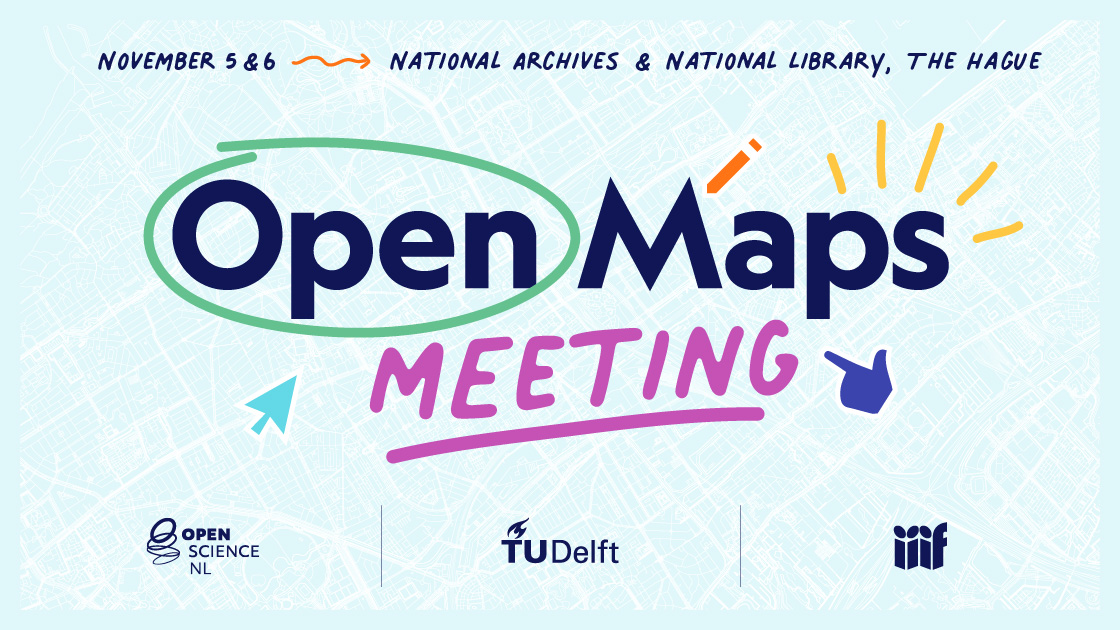
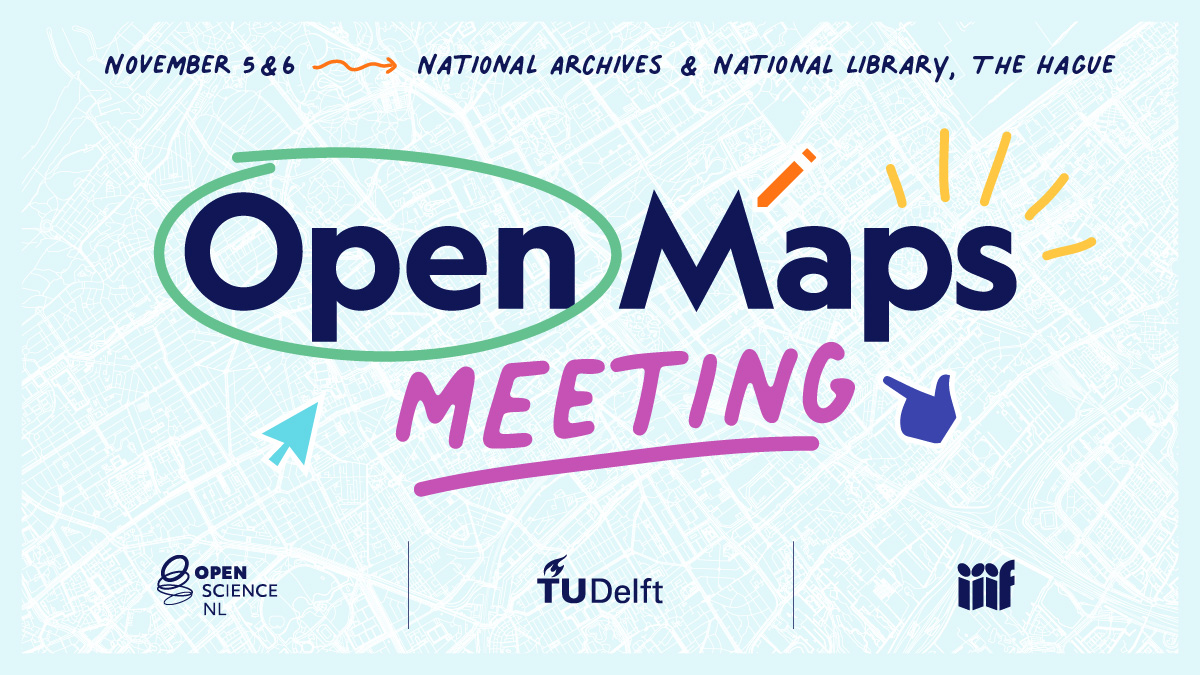
please linked in?

diff --git a/observablehq.config.js b/observablehq.config.js
@@ -71,8 +71,8 @@ function og_image() {
     );
     return `<meta name="image" property="og:image" content=${esc_img} />
             <meta property="twitter:image" content=${esc_img} />
-            <meta property="og:image:width" content="1120">
-            <meta property="og:image:height" content="630">
+            <meta property="og:image:width" content="1200">
+            <meta property="og:image:height" content="675">
             <link href="/assets/opengraph.jpg">`;
   } catch (error) {
     return "";
